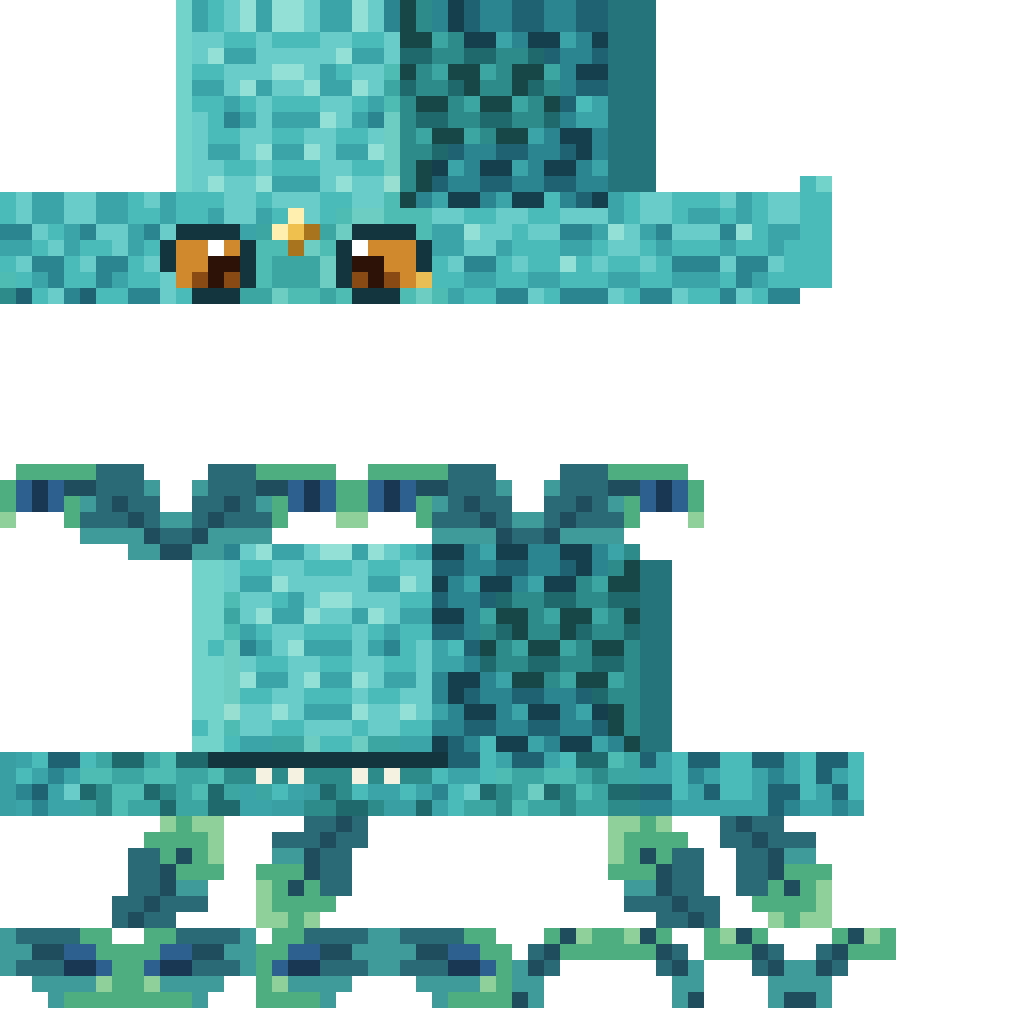
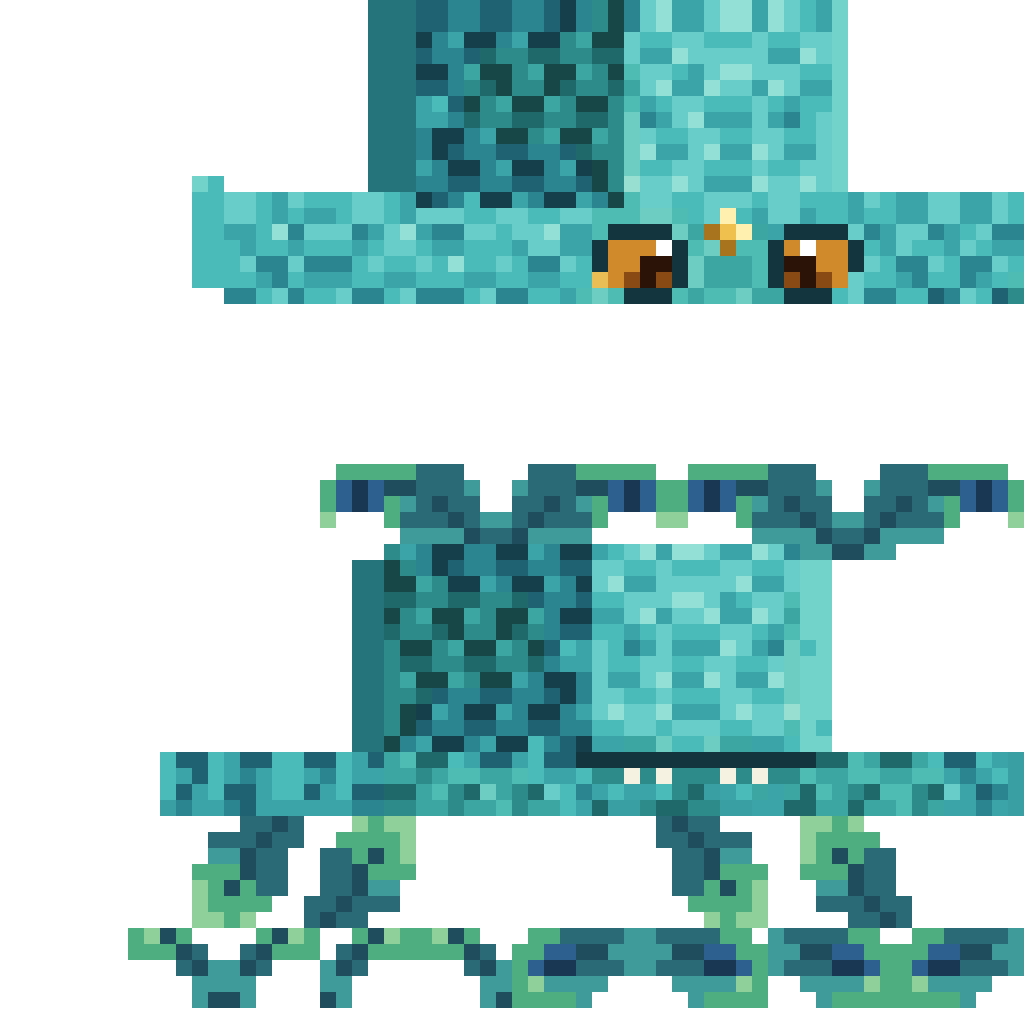
Reorganiza atlas e UVs do F1 após isolar falha no asset de cor

diff --git a/ferramenta/criaturas/exportar.py b/ferramenta/criaturas/exportar.py
@@ -443,8 +443,52 @@ def material_fosco_glb(caminho: Path) -> None:
                         + cabecalho + struct.pack("<I", len(binario)) + b"BIN\0" + binario)
 
 
+def espelhar_atlas_glb(caminho: Path, png: Path) -> None:
+    """Novo layout do atlas, com a mesma aparência: imagem espelhada e U substituído por 1-U.
+
+    Permite reenviar uma textura cujo asset funciona em TextureID mas falha em ColorMap.
+    Não muda a fonte artística, posições, ossos ou canais. O PNG entregue e o embutido
+    são sempre atualizados juntos. Só é aplicado a exportações de atlas único.
+    """
+    import numpy as np
+
+    g = json_do_glb(caminho)
+    if len(g.get("images", [])) != 1:
+        raise ValueError("espelhar_atlas requer um único atlas de cor antes do material PBR")
+    dados = bytearray(caminho.read_bytes())
+    inicio = 28 + struct.unpack("<I", dados[12:16])[0]
+    indices = {p["attributes"]["TEXCOORD_0"] for m in g.get("meshes", []) for p in m["primitives"]
+               if "TEXCOORD_0" in p.get("attributes", {})}
+    for indice in indices:
+        a = g["accessors"][indice]
+        if a["componentType"] != 5126 or a["type"] != "VEC2" or "sparse" in a:
+            raise ValueError("UV precisa ser VEC2 float32 sem sparse para remapear o atlas")
+        v = g["bufferViews"][a["bufferView"]]
+        offset = inicio + v.get("byteOffset", 0) + a.get("byteOffset", 0)
+        uv = np.ndarray((a["count"], 2), dtype="<f4", buffer=dados, offset=offset,
+                        strides=(v.get("byteStride", 8), 4))
+        # O codec pode recuar uma borda para -1/4096. O sampler da fonte é CLAMP_TO_EDGE;
+        # limitar U mantém a mesma cor e evita reenviar essa margem fora de [0, 1].
+        uv[:, 0] = np.clip(1 - uv[:, 0], 0, 1)
+        if "min" in a:
+            a["min"] = uv.min(axis=0).tolist()
+        if "max" in a:
+            a["max"] = uv.max(axis=0).tolist()
+    with Image.open(png) as im:
+        espelhada = im.transpose(Image.Transpose.FLIP_LEFT_RIGHT)
+    cabecalho = json.dumps(g, separators=(",", ":")).encode()
+    cabecalho += b" " * (-len(cabecalho) % 4)
+    resto = dados[inicio - 8:]  # chunk BIN, com as UVs alteradas
+    total = 20 + len(cabecalho) + len(resto)
+    caminho.write_bytes(b"glTF" + struct.pack("<II", 2, total) + struct.pack("<I", len(cabecalho)) + b"JSON"
+                        + cabecalho + resto)
+    espelhada.save(png)
+    trocar_imagem_glb(caminho, png.read_bytes())
+
+
 def exportar_roblox(arquivo: Path, nome: str, pasta: Path, separar: dict | None = None,
-                    superamostra: dict | None = None, material_pbr: bool = False) -> dict:
+                    superamostra: dict | None = None, material_pbr: bool = False,
+                    espelhar_atlas: bool = False) -> dict:
     """`.bbmodel` → `<pasta>/<nome>.glb` pronto para o Roblox (raiz, frente, alfa sangrado, 1024, nome da cena).
 
     `separar` = {"nome_da_textura": ["osso", ...]}: essas partes ganham textura própria (ver separar_textura).
@@ -503,6 +547,8 @@ def exportar_roblox(arquivo: Path, nome: str, pasta: Path, separar: dict | None 
     acrescentar_locators(glb, modelo)
     renomear_glb(glb, nome)
     trocar_imagens_glb(glb, [p.read_bytes() for p in pngs])  # devolve o alfa sangrado que o canvas do Blockbench zerou
+    if espelhar_atlas:
+        espelhar_atlas_glb(glb, ampliada)
     if material_pbr:
         material_fosco_glb(glb)
     erros, avisos, resumo = verificar_glb(glb, modelo)

diff --git a/ferramenta/testes/test_roblox_regressoes.py b/ferramenta/testes/test_roblox_regressoes.py
@@ -77,3 +77,45 @@ def test_material_fosco_preserva_binario_uvs_rig_e_animacoes(tmp_path):
     im = Image.open(io.BytesIO(depois[offset:offset + vista["byteLength"]]))
     assert im.size == (4, 4) and im.getpixel((0, 0)) == (255, 255, 0)
     assert pbr["metallicFactor"] == 0 and pbr["roughnessFactor"] == 1
+
+
+def test_novo_atlas_preserva_amostragem_e_todos_os_dados_exceto_u(tmp_path):
+    import numpy as np
+
+    glb = tmp_path / "novo-atlas.glb"
+    png = tmp_path / "atlas.png"
+    shutil.copy(RAIZ / "exportacoes/roblox/pavao/Pavao_F2.glb", glb)
+    shutil.copy(RAIZ / "exportacoes/roblox/pavao/Pavao_F2-textura.png", png)
+    antes, g0 = glb.read_bytes(), exportar.json_do_glb(glb)
+    pixels0 = np.array(Image.open(png))
+
+    def accessor(blob, g, i):
+        a = g["accessors"][i]
+        v = g["bufferViews"][a["bufferView"]]
+        n = {"SCALAR": 1, "VEC2": 2, "VEC3": 3, "VEC4": 4, "MAT4": 16}[a["type"]]
+        b = {5120: 1, 5121: 1, 5122: 2, 5123: 2, 5125: 4, 5126: 4}[a["componentType"]]
+        offset = 28 + struct.unpack("<I", blob[12:16])[0] + v.get("byteOffset", 0) + a.get("byteOffset", 0)
+        stride = v.get("byteStride", n * b)
+        return b"".join(blob[offset+j*stride:offset+j*stride+n*b] for j in range(a["count"]))
+
+    exportar.espelhar_atlas_glb(glb, png)
+    depois, g1 = glb.read_bytes(), exportar.json_do_glb(glb)
+    for campo in ("nodes", "skins", "meshes", "animations"):
+        assert g0[campo] == g1[campo]
+    uvs = {p["attributes"]["TEXCOORD_0"] for m in g0["meshes"] for p in m["primitives"]}
+    for i in range(len(g0["accessors"])):
+        a, b = accessor(antes, g0, i), accessor(depois, g1, i)
+        if i in uvs:
+            u0, u1 = np.frombuffer(a, "<f4").reshape(-1, 2), np.frombuffer(b, "<f4").reshape(-1, 2)
+            assert np.allclose(u1[:, 0], np.clip(1 - u0[:, 0], 0, 1))
+            assert np.array_equal(u1[:, 1], u0[:, 1])
+        else:
+            assert a == b  # posições, normais, índices, skin e canais de animação
+    pixels1 = np.array(Image.open(png))
+    assert np.array_equal(pixels1, pixels0[:, ::-1])
+    h, w = pixels0.shape[:2]
+    for u, v in [(0.123, 0.345), (0.456, 0.678), (0.789, 0.111)]:
+        assert np.array_equal(pixels0[int(v*h), int(u*w)], pixels1[int(v*h), int((1-u)*w)])
+    vista = g1["bufferViews"][g1["images"][0]["bufferView"]]
+    inicio = 28 + struct.unpack("<I", depois[12:16])[0] + vista["byteOffset"]
+    assert depois[inicio:inicio+vista["byteLength"]] == png.read_bytes()

diff --git a/scripts/exportar-roblox.py b/scripts/exportar-roblox.py
@@ -22,7 +22,8 @@ for c in registro["criaturas"]:
     if pedidas and c["nome"] not in pedidas:
         continue
     r = exportar.exportar_roblox(RAIZ / c["fonte"], c["nome"], PASTA / c["especie"], c.get("texturas_separadas"),
-                               c.get("superamostrar"), material_pbr=c.get("material_pbr", False))
+                               c.get("superamostrar"), material_pbr=c.get("material_pbr", False),
+                               espelhar_atlas=c.get("espelhar_atlas", False))
     print(f"{c['nome']}: {r['glb'].relative_to(RAIZ)}  {r['resumo']}")
     for m in r["erros"] + r["avisos"]:
         print("   ", m)

diff --git a/docs/sessoes/2026-10-23-validacao-roblox.md b/docs/sessoes/2026-10-23-validacao-roblox.md
@@ -3,15 +3,19 @@ tipo: sessao
 data: 2026-10-23
 fase: 10
 ia: codex
-status: aguardando-reimportacao-f1
+status: aguardando-reimportacao-atlas-f1
 ---
 
 # Validação no cliente do Studio e material do F1
 
-**Pedido ao usuário:** importar apenas o `exportacoes/roblox/pavao/Pavao_F1.glb` atualizado, com Rig Type Custom.
+**Pedido atual ao usuário:** importar apenas o `exportacoes/roblox/pavao/Pavao_F1.glb` atualizado **com o novo
+layout de atlas** (`espelhar_atlas: true`), com Rig Type Custom. A importação PBR anterior já foi feita e
+continuou branca: o usuário confirmou que o mapa do F2, aplicado temporariamente no mesmo material do F1,
+mostrou cores. A nova exportação muda o conteúdo do atlas e remapeia as UVs para gerar outro asset de cor,
+preservando a aparência. Esse último arquivo ainda aguarda importação e confirmação visual.
 Pode deixar o modelo novo no Workspace; a IA localizará a importação e a colocará na pasta combinada,
 preservando o F1 anterior em um subdiretório de histórico. A importação é ação manual combinada com o usuário.
-O novo arquivo contém material PBR explícito; a correção visual do F1 ainda não está comprovada.
+O material PBR permanece explícito; a correção visual do F1 ainda não está comprovada.
 
 **Feito:**
 - As importações novas estavam no Workspace, entre modelos antigos. Organizadas em
@@ -60,3 +64,32 @@ O novo arquivo contém material PBR explícito; a correção visual do F1 ainda 
 
 **Próximo passo:** localizar o novo F1, preservar o anterior, aplicar o preparo vigente e testar no cliente.
 Conferir os mapas PBR criados pelo importador e obter evidência visual perto/longe. A fase 10.3 continua aberta.
+
+## Reimportação PBR e diagnóstico com o usuário
+
+- F1 PBR importado e preparado; anterior preservado em
+  `ServerStorage.HistoricoCriaturasBlockbench.Pavao_F1_antes_material_pbr`.
+  O novo manteve MeshId `97293060483622` e ColorMap `136950763430471`.
+  RoughnessMap `135530020828766`, MetalnessMap `118011954941645`: ambos imagens de 4×4,
+  legíveis por EditableImage no Edit, embora PreloadAsync no cliente tenha retornado Failure nesses dois mapas.
+  Isso não prova moderação nem explica sozinho o material branco.
+- Walks medidos novamente no cliente: F1 Y entre −0,0108 e 0,4655 stud, rotação 0°, X/Z=0;
+  F2 Y entre −0,0801 e 0,0815, rotação até 4,6635°, X/Z=0. Ambas as hitboxes ficaram imóveis e contiveram
+  os oito cantos das MeshParts (excesso 0); uma faixa tocando por modelo e filtro Pixelated no cliente.
+- Todas as capturas retornaram 99,6% de pixels brancos, incluindo cenário. O usuário confirmou que o F1
+  continuava branco: o material completo sozinho não resolveu.
+- Teste controlado no Edit: somente ColorMap do F1 foi trocado temporariamente para `123315715785564` (F2).
+  O usuário confirmou **"Ganhou cores, com o desenho errado"**. Isso isola a falha ao caminho de material do
+  mapa de cor `136950763430471`; o mesmo objeto F1 consegue mostrar outra textura. O mapa original foi
+  restaurado e o atributo temporário de diagnóstico foi removido. Não é prova de corrupção interna do asset.
+- Exportador: `espelhar_atlas: true` reorganiza a imagem por reflexão horizontal e troca U por 1−U,
+  limitando a margem do codec a [0,1] conforme o sampler CLAMP_TO_EDGE. A imagem embutida e o PNG entregue
+  são atualizados juntos; fonte artística e modelo original ficam intactos. Só habilitado no F1.
+- Conferência do F1 real: 192 UVs de vértices mantêm exatamente a mesma amostra RGBA; todos os dados
+  binários de posições, normais, índices, skin e animações permanecem iguais aos do GLB PBR anterior.
+  Novo GLB: UVs entre 0,00024 e 1,0, 96 triângulos, duas animações, zero erros/avisos Khronos.
+- Regressão acrescentada para o novo layout: testa UVs, amostragem, preservação dos outros accessors e
+  igualdade do PNG embutido com o entregue. Suíte de exportação/regressões: **11 passaram**.
+  O Play foi encerrado e F1/F2 foram enquadrados no Edit.
+- Próxima importação deve criar outro asset de cor; verificar isso antes de fazer qualquer teste adicional
+  de material. Não repetir a importação anterior com o mesmo ColorMap e tratá-la como nova textura.

diff --git a/exportacoes/roblox/GUIA-IA-ROBLOX.md b/exportacoes/roblox/GUIA-IA-ROBLOX.md
@@ -111,9 +111,16 @@ esse objeto no cliente. Os pixels do asset estavam disponíveis; `PreloadAsync.S
 material PBR derivado renderiza. Reatribuir o mapa, trocar Pixelated/Default e acrescentar roughness nativo
 não resolveram. O diagnóstico aponta para o caminho de processamento do material; a causa interna não foi provada.
 `material_pbr: true` no registro do F1 agora embute um mapa glTF constante de roughness/metallic (4×4, G=1/B=0),
-para o importador criar o material completo junto com o albedo. **Esse caminho ainda aguarda nova importação e
-validação visual.** Não usar EditableImage de execução como conserto permanente de uma criatura salva.
+para o importador criar o material completo junto com o albedo. **A reimportação foi testada e, sozinha,
+não resolveu o branco**, conforme o resultado abaixo. Não usar EditableImage de execução como conserto permanente de uma criatura salva.
 O [importador oficial](https://create.roblox.com/docs/studio/importer) suporta texturas PBR com rigs e animações.
+
+**Resultado da reimportação PBR:** o F1 continuou branco segundo o usuário, reutilizando ColorMap
+`136950763430471`. Ao trocar somente esse mapa pelo asset do F2, o usuário viu cores no mesmo F1.
+O problema está isolado ao uso daquele mapa no material, sem comprovação da causa interna do asset.
+O F1 agora usa também `espelhar_atlas: true`: imagem reorganizada horizontalmente e U remapeado junto,
+com a mesma aparência. Isso deve gerar outro asset de cor na próxima importação; **ainda falta confirmar**.
+Nunca aplique só o PNG espelhado à malha antiga: é necessário importar o GLB com as UVs correspondentes.
 
 - `SurfaceAppearance.ResampleMode = Pixelated` usa filtro de vizinho mais próximo segundo a
   [documentação oficial](https://create.roblox.com/docs/reference/engine/classes/SurfaceAppearance#ResampleMode).

diff --git a/docs/sessoes/2026-10-22-retomada.md b/docs/sessoes/2026-10-22-retomada.md
@@ -12,7 +12,8 @@ textura. Os assets consultados carregaram com sucesso; a hipótese de moderaçã
 Novos GLBs e preparo corrigido aguardam importação em `Workspace["criaturas modeladas blockbench"]`.
 
 **Validação posterior à importação:** [[2026-10-23-validacao-roblox]] registra os dois walks corrigidos no cliente,
-a organização da pasta e a falha específica do material do F1. Apenas o F1 com material PBR aguarda reimportação.
+a organização da pasta e a falha específica do material do F1. O teste PBR já foi feito e não resolveu;
+apenas o F1 com **novo layout do atlas e UVs correspondentes** aguarda reimportação.
 
 Escrita para quem continuar (Claude, Codex ou outro). Esta nota substitui [[2026-10-21-retomada-claude]], que é anterior ao F2 e ao trabalho no Roblox.
 
